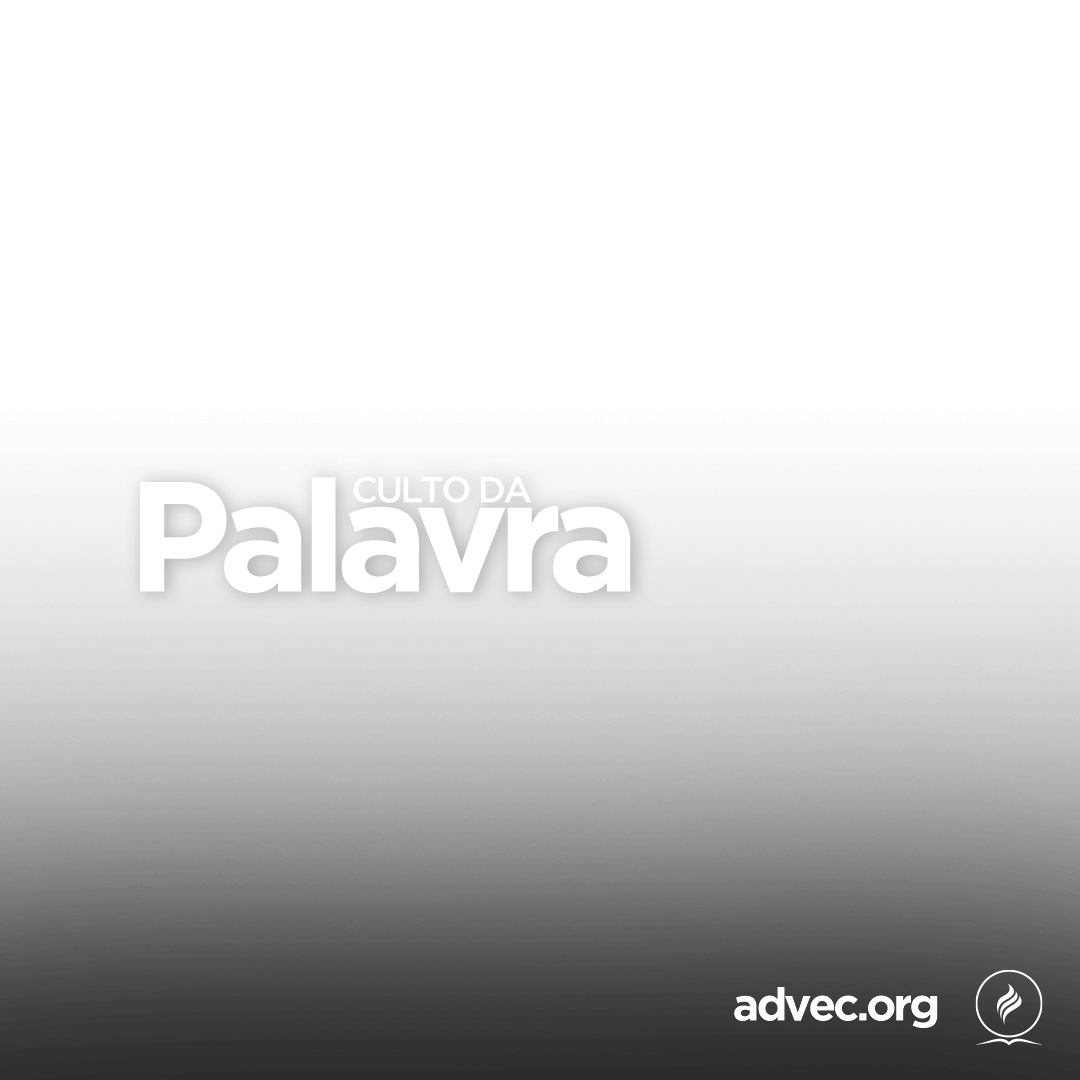
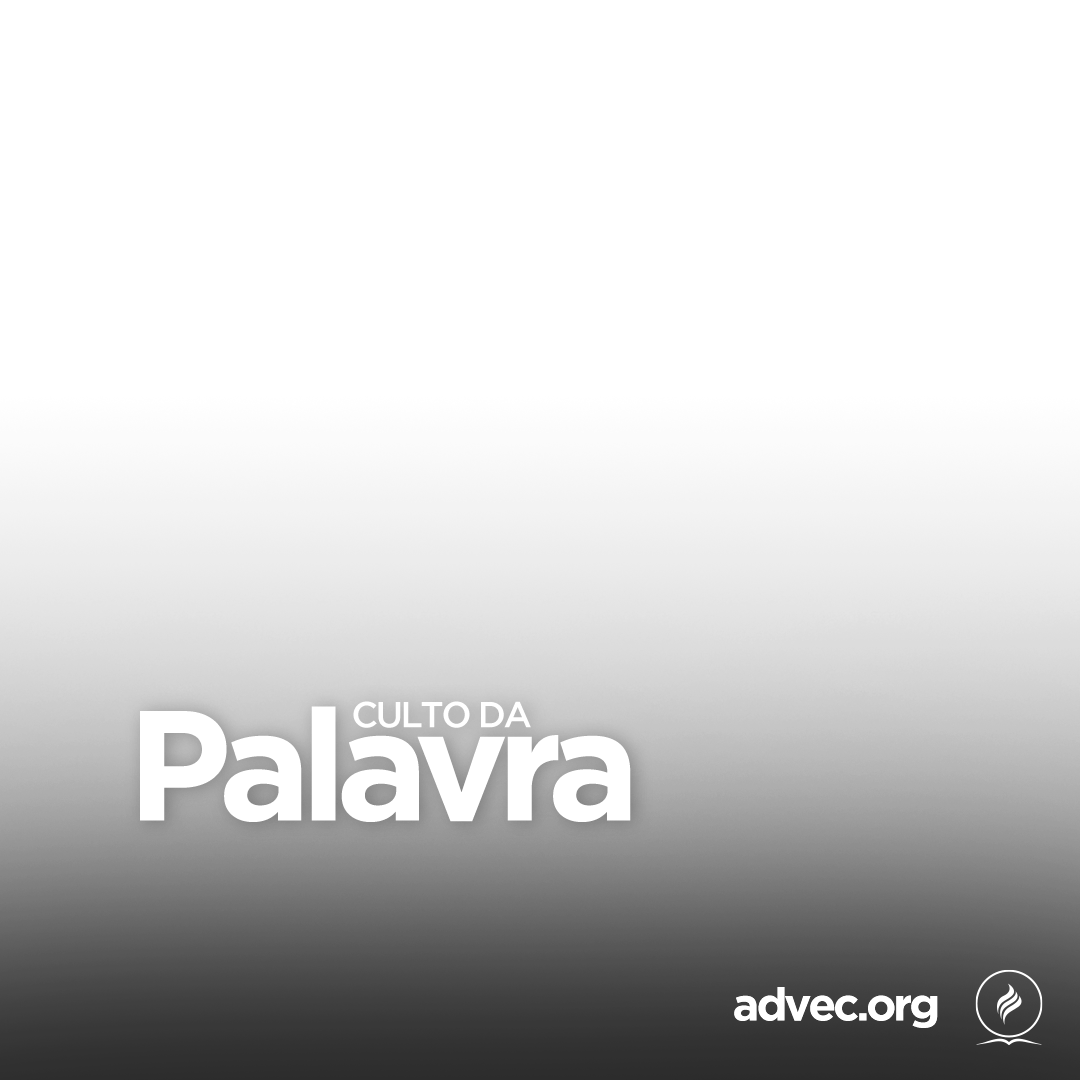
Alterando o modelo "Palavra" para o padrão da igreja

Changed region(s): [[0.1222, 0.6417, 0.6111, 0.7639], [0.1528, 0.4583, 0.6111, 0.55]]

diff --git a/src/components/Editor/Editor.css b/src/components/Editor/Editor.css
@@ -1,3 +1,37 @@
+.AppBlockMobile {
+    display: none;
+}
+
+@media (max-width: 986px) {
+  .AppBlockMobile {
+    display: block;
+    width: 100%;
+    height: 100vh;
+    position: fixed;
+    background: #282c34;
+    z-index: 9999;
+    color: white;
+    display: flex;
+    justify-content: center;
+    align-items: center;
+    flex-direction: column;
+    text-align: center;
+    }
+
+    .AppBlockMobile__Container {
+        display: flex;
+        justify-content: center;
+        align-items: center;
+        flex-direction: column;
+        width: 80%;
+    }
+
+    .AppBlockMobile__Container img {
+        width: 50px;
+        padding-bottom: 20px;
+    }
+}
+
 #step-2 * {
     transition: .5s ease-in-out;
 }

diff --git a/src/components/Models/models.js b/src/components/Models/models.js
@@ -378,6 +378,7 @@ class Models extends Component {
                                     <ButtonGroup color="secondary" size="large" fullWidth aria-label="full width outlined button group">
                                       <Button onClick={this.changeModelType.bind(this)} >feed</Button>
                                       <Button onClick={this.changeModelType.bind(this)} >story</Button>
+                                      
                                     </ButtonGroup>
                                 </Grid>
                             </div>
